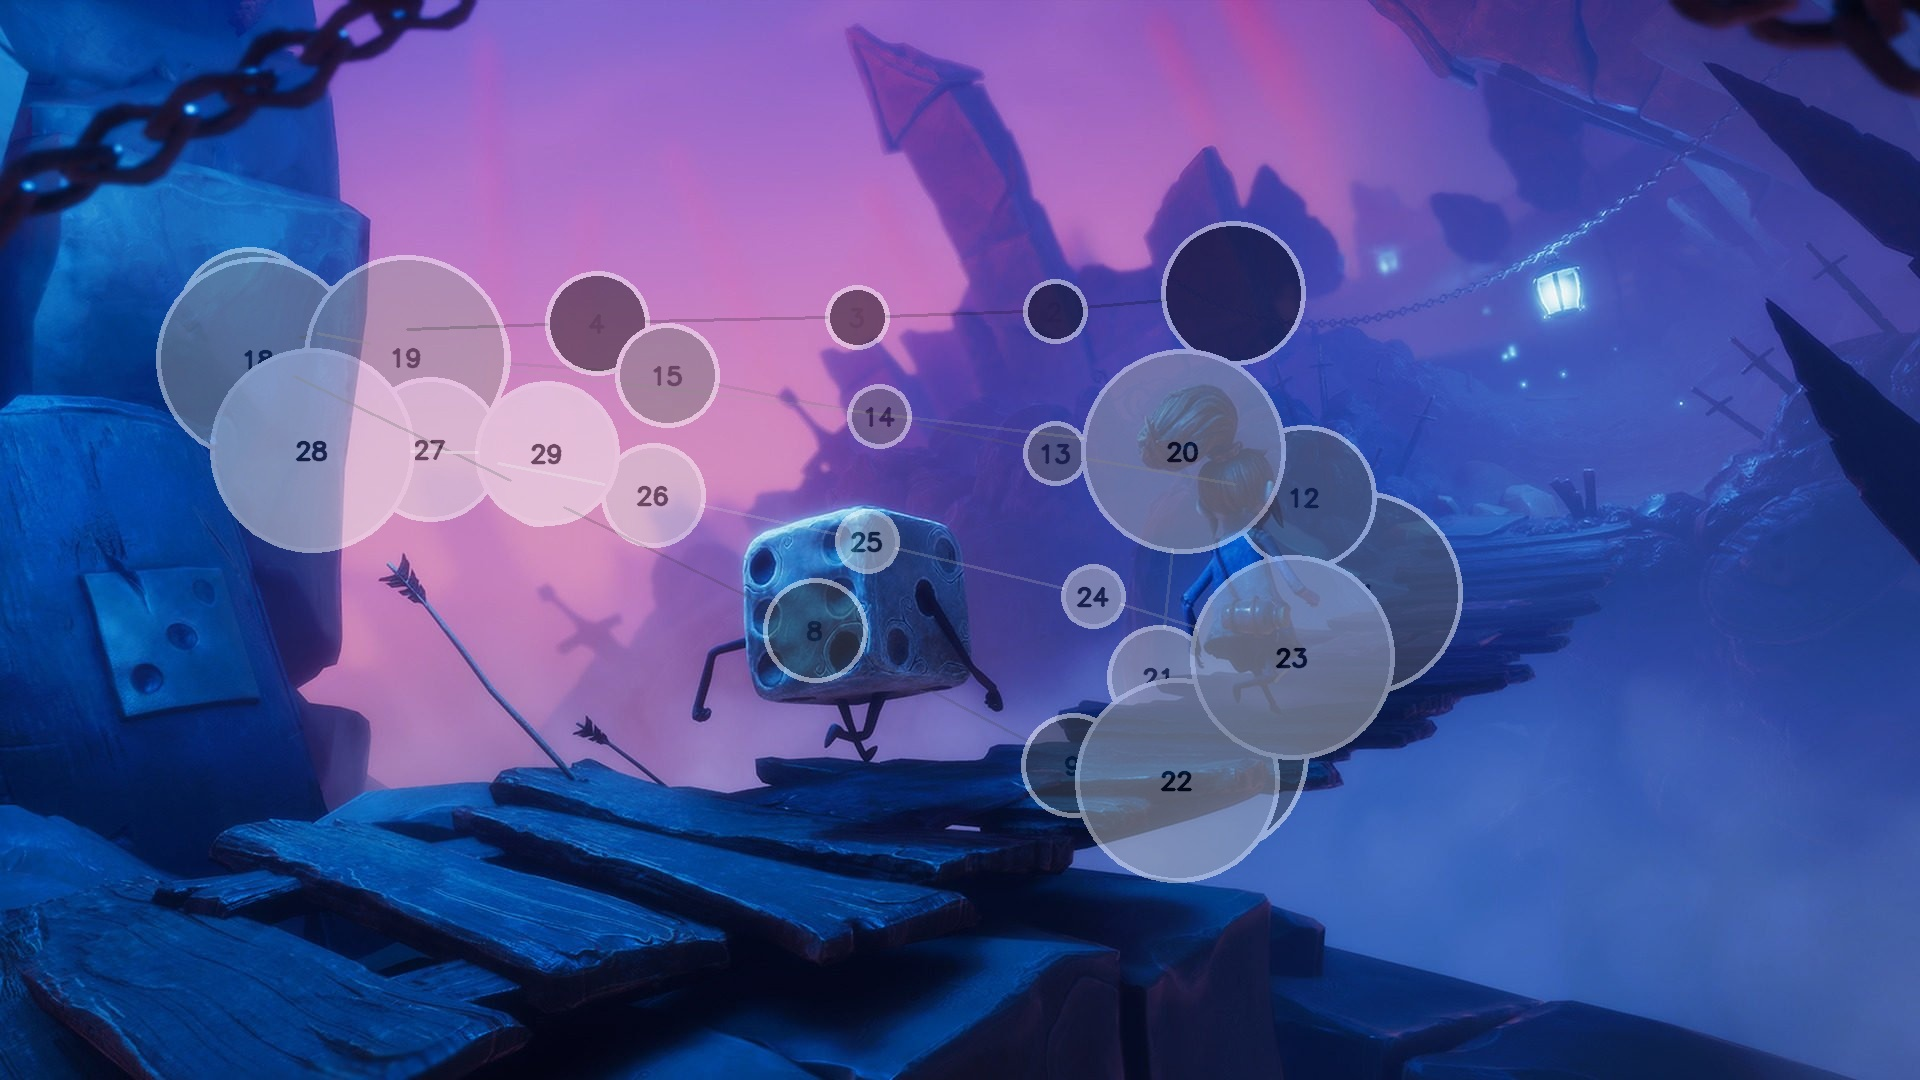
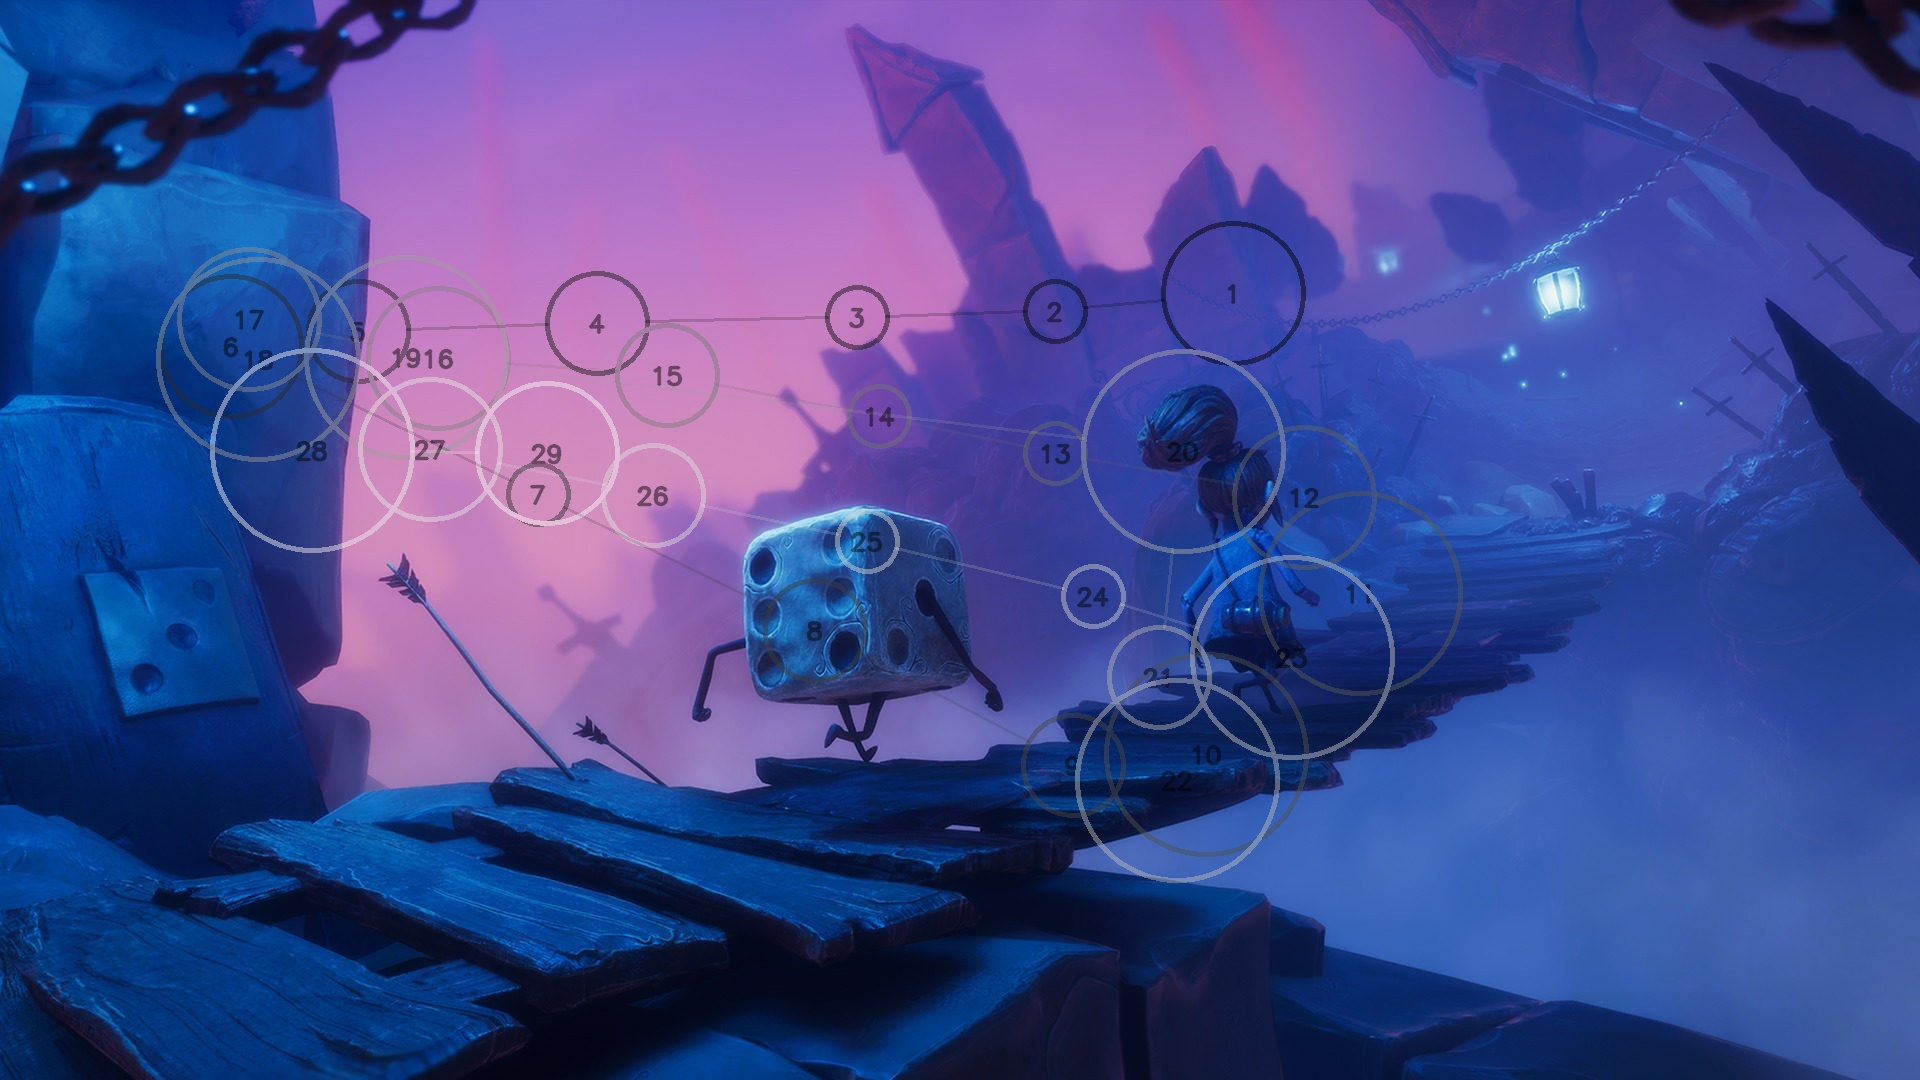
feat: small changes to add plan for scanpath

diff --git a/scanpath.py b/scanpath.py
@@ -110,18 +110,19 @@ for key in range(0, len(points_group) - 1):
     text_size, _ = cv2.getTextSize(str(points_group[points_group_keys[key]]['index']), TEXT_FACE, TEXT_SCALE, TEXT_THICKNESS)
     text_origin = (int(x1 - text_size[0] / 2), int(y1 + text_size[1] / 2))
     
-    cv2.circle(overlay_circles, (x1, y1), radius1, colors[points_group_keys[key]], -1)
-    cv2.circle(overlay_circles, (x1, y1), radius1, (255, 255, 255), 3)
+    #cv2.circle(overlay_circles, (x1, y1), radius1, colors[points_group_keys[key]], -1)
+    cv2.circle(overlay_circles, (x1, y1), radius1, colors[points_group_keys[key]], 3)
     cv2.putText(overlay_circles, str(points_group[points_group_keys[key]]['index']), text_origin, TEXT_FACE, TEXT_SCALE, TEXT_COLOR, TEXT_THICKNESS, cv2.LINE_AA)
     if key == len(points_group) - 2:
         text_size, _ = cv2.getTextSize(str(points_group[points_group_keys[key]]['index']), TEXT_FACE, TEXT_SCALE, TEXT_THICKNESS)
         text_origin = (int(x2 - text_size[0] / 2), int(y2 + text_size[1] / 2))
-        cv2.circle(overlay_circles, (x2, y2), radius2, colors[points_group_keys[key + 1]], -1)
-        cv2.circle(overlay_circles, (x2, y2), radius2, (255, 255, 255), 3)
+        #cv2.circle(overlay_circles, (x2, y2), radius2, colors[points_group_keys[key + 1]], -1)
+        cv2.circle(overlay_circles, (x2, y2), radius2, colors[points_group_keys[key + 1]], 3)
         cv2.putText(overlay_circles, str(points_group[points_group_keys[key + 1]]['index']), text_origin, TEXT_FACE, TEXT_SCALE, TEXT_COLOR, TEXT_THICKNESS, cv2.LINE_AA)
 
 
 result = cv2.addWeighted(overlay_circles, alpha_circles, image, 1 - alpha_circles, 0)
 result = cv2.addWeighted(overlay_lines, alpha_lines, result, 1 - alpha_lines, 0)
 
+# TODO: generate multiple images with different types of scanpath
 cv2.imwrite("./images/scan_test_after.jpg", result)
